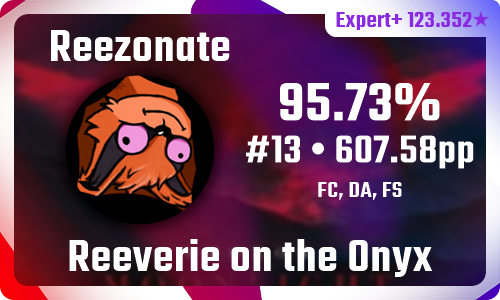
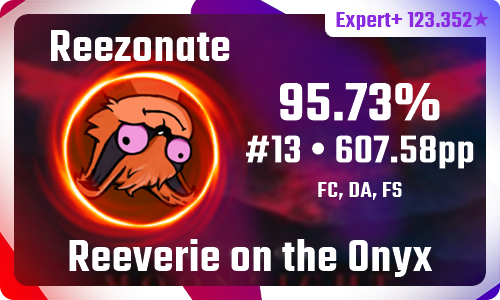
smaller corner

Changed region(s): [[0.06, 0.15, 0.51, 0.87], [0.63, 0.09, 0.66, 0.12]]

diff --git a/EmbedGenerator/EmbedGenerator/EmbedLayout.cs b/EmbedGenerator/EmbedGenerator/EmbedLayout.cs
@@ -32,7 +32,7 @@ internal class EmbedLayout {
         MinPlayerNameFontSize = size.Height * 0.07f;
         MinSongNameFontSize = size.Height * 0.1f;
         DiffFontSize = size.Height * 0.06f;
-        DiffCornerRadius = (int)(size.Height * 0.04f);
+        DiffCornerRadius = (int)(size.Height * 0.03f);
 
         var center = new PointF(size.Width * 0.5f, size.Height * 0.5f);
 
